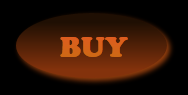
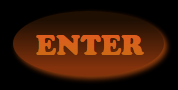
Minor changes in Navigation

diff --git a/db/schema.rb b/db/schema.rb
@@ -11,11 +11,7 @@
 #
 # It's strongly recommended to check this file into your version control system.
 
-<<<<<<< HEAD
-ActiveRecord::Schema.define(:version => 20121029181530) do
-=======
-ActiveRecord::Schema.define(:version => 20121031212427) do
->>>>>>> e62381e70b8e78edc62b0f2afd2731c7cca348c7
+ActiveRecord::Schema.define(:version => 20121101062600) do
 
   create_table "brands", :force => true do |t|
     t.string   "name"
@@ -64,6 +60,8 @@ ActiveRecord::Schema.define(:version => 20121031212427) do
   add_index "subcategories", ["name"], :name => "index_subcategories_on_name", :unique => true
 
   create_table "users", :force => true do |t|
+    t.string   "username"
+    t.string   "password"
     t.string   "first_name"
     t.string   "last_name"
     t.string   "image"

diff --git a/app/models/item.rb b/app/models/item.rb
@@ -3,12 +3,12 @@ class Item < ActiveRecord::Base
   belongs_to :category
   belongs_to :subcategory
   belongs_to :brand
-<<<<<<< HEAD
+  belongs_to :user
+
   has_attached_file :pic, :styles => { :medium => "300x300"},
                     :path => ":rails_root/public/system/:attachment/:id/:style/:filename",
                     :url => "/system/:attachment/:id/:style/:filename"
-=======
->>>>>>> e62381e70b8e78edc62b0f2afd2731c7cca348c7
+
   validates_presence_of :name,:category_id,:subcategory_id,:brand_id
 
   def self.search(search)

diff --git a/app/controllers/categories_controller.rb b/app/controllers/categories_controller.rb
@@ -5,6 +5,8 @@ class CategoriesController < ApplicationController
           @items = Item.search(params[:search])
     elsif params.has_key?("category_id") and params.has_key?("subcategory_id")
       @items = Item.where("category_id = ? AND subcategory_id = ?", params[:category_id], params[:subcategory_id])
+    elsif params.has_key?("other_param")
+      @items = Item.find_all_by_user_id(current_user.id)
     end
   end
 

diff --git a/config/environments/development.rb b/config/environments/development.rb
@@ -35,10 +35,10 @@ BestBay::Application.configure do
   # Expands the lines which load the assets
   config.assets.debug = true
 
-<<<<<<< HEAD
+
   Paperclip.options[:command_path] = "/usr/local/bin"
-=======
+
   #for devise
   config.action_mailer.default_url_options = { :host => 'localhost:3000' }
->>>>>>> e62381e70b8e78edc62b0f2afd2731c7cca348c7
+
 end

diff --git a/config/routes.rb b/config/routes.rb
@@ -12,15 +12,6 @@ BestBay::Application.routes.draw do
 
   get "welcome/index"
 
-<<<<<<< HEAD
-  resources :items do
-    member do
-      get 'update_subcategories'
-    end
-  end
-=======
->>>>>>> e62381e70b8e78edc62b0f2afd2731c7cca348c7
-
   root :to => 'welcome#index'
 
   resources :items

diff --git a/app/models/user.rb b/app/models/user.rb
@@ -8,4 +8,5 @@ class User < ActiveRecord::Base
   # Setup accessible (or protected) attributes for your model
   attr_accessible :email, :password, :password_confirmation, :remember_me
   attr_accessible :first_name, :image, :last_name, :password
+  has_many :items
 end

diff --git a/app/controllers/items_controller.rb b/app/controllers/items_controller.rb
@@ -27,6 +27,7 @@ class ItemsController < ApplicationController
 
   def create
     @item = Item.new(params[:item])
+
     respond_to do |format|
       if @item.save
         format.html { redirect_to @item }
